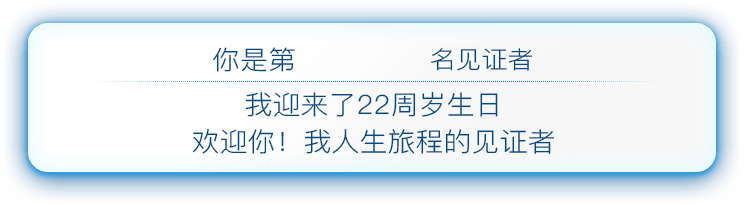
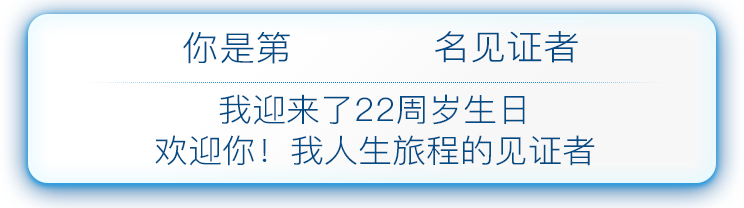
update

diff --git a/js/index.js b/js/index.js
@@ -91,11 +91,8 @@ $(function () {
   function addCount(options) {
     var Counter = AV.Object.extend('Counter');
     if (options.counter) {
-      // options.counter.fetchWhenSave(true);
-      if (options.read) {
-        options.counter.increment('read', parseInt(Math.random() * 100));
-        options.counter.increment('realread', 1);
-      }
+      options.counter.increment('read', parseInt(Math.random() * 20));
+      options.counter.increment('realread', 1);
       options.counter.save();
     } else if (options.isInit) {
       var newcounter = new Counter();
@@ -111,17 +108,14 @@ $(function () {
         success: function (results) {
           if (results.length > 0) {
             var counter = results[0];
-            // counter.fetchWhenSave(true);
-            if (options.read) {
-              counter.increment('read', parseInt(Math.random() * 100));
-              counter.increment('realread', 1);
-            }
+            counter.increment('read', parseInt(Math.random() * 20));
+            counter.increment('realread', 1);
             counter.save();
           } else {
             var newcounter = new Counter();
             newcounter.set('title', options.title);
             newcounter.set('url', options.url);
-            newcounter.set('read', parseInt(Math.random() * 100));
+            newcounter.set('read', parseInt(Math.random() * 20));
             newcounter.set('realread', 1);
             newcounter.save();
           }
@@ -146,12 +140,10 @@ $(function () {
       if (results.length !== 0) {
         var counter = results[0];
         COUNT = counter.get('read');
-        console.log(COUNT);
 
         // 增加阅读量
         addCount({
-          counter: counter,
-          read: true
+          counter: counter
         });
       } else {
         addCount({
@@ -162,11 +154,6 @@ $(function () {
       }
     }
   });
-
-  // function getMedia() {
-  //   return (navigator.mediaDevices && navigator.mediaDevices.getUserMedia) || navigator.getUserMedia || navigator.webkitGetUserMedia ||
-  //     navigator.mozGetUserMedia || navigator.msGetUserMedia;
-  // }
 
   var flipTimeout;
   var arrowTimeout;
@@ -260,7 +247,7 @@ $(function () {
             prefix: '',
             suffix: ''
         };
-        var countup = new CountUp('countup', 0, 86, 0, 2.5, options);
+        var countup = new CountUp('countup', 0, COUNT, 0, 2.5, options);
         countup.start();
       }, 500);
       setTimeout(function () {

diff --git a/css/style.less b/css/style.less
@@ -415,10 +415,10 @@ img {
     }
   }
   .text {
-    top: 0;
+    top: 35px;
     left: 0;
     width: 100%;
-    height: 102.5px;
+    height: 104px;
     background-image: url(../images/text4.png);
     opacity: 0;
     &.show {
@@ -445,10 +445,10 @@ img {
     }
   }
   .countup {
-    padding-top: 18px;
-    padding-right: 8px;
+    padding-top: 11px;
+    padding-right: 10px;
     color: #fb650b;
-    font-size: 2rem;
+    font-size: 2.2rem;
     font-weight: bold;
     text-align: center;
   }

diff --git a/css/style.css b/css/style.css
@@ -515,10 +515,10 @@ img {
   display: block;
 }
 .page3 .text {
-  top: 0;
+  top: 35px;
   left: 0;
   width: 100%;
-  height: 102.5px;
+  height: 104px;
   background-image: url(../images/text4.png);
   opacity: 0;
 }
@@ -547,10 +547,10 @@ img {
   margin-left: -21px;
 }
 .page3 .countup {
-  padding-top: 18px;
-  padding-right: 8px;
+  padding-top: 11px;
+  padding-right: 10px;
   color: #fb650b;
-  font-size: 2rem;
+  font-size: 2.2rem;
   font-weight: bold;
   text-align: center;
 }
